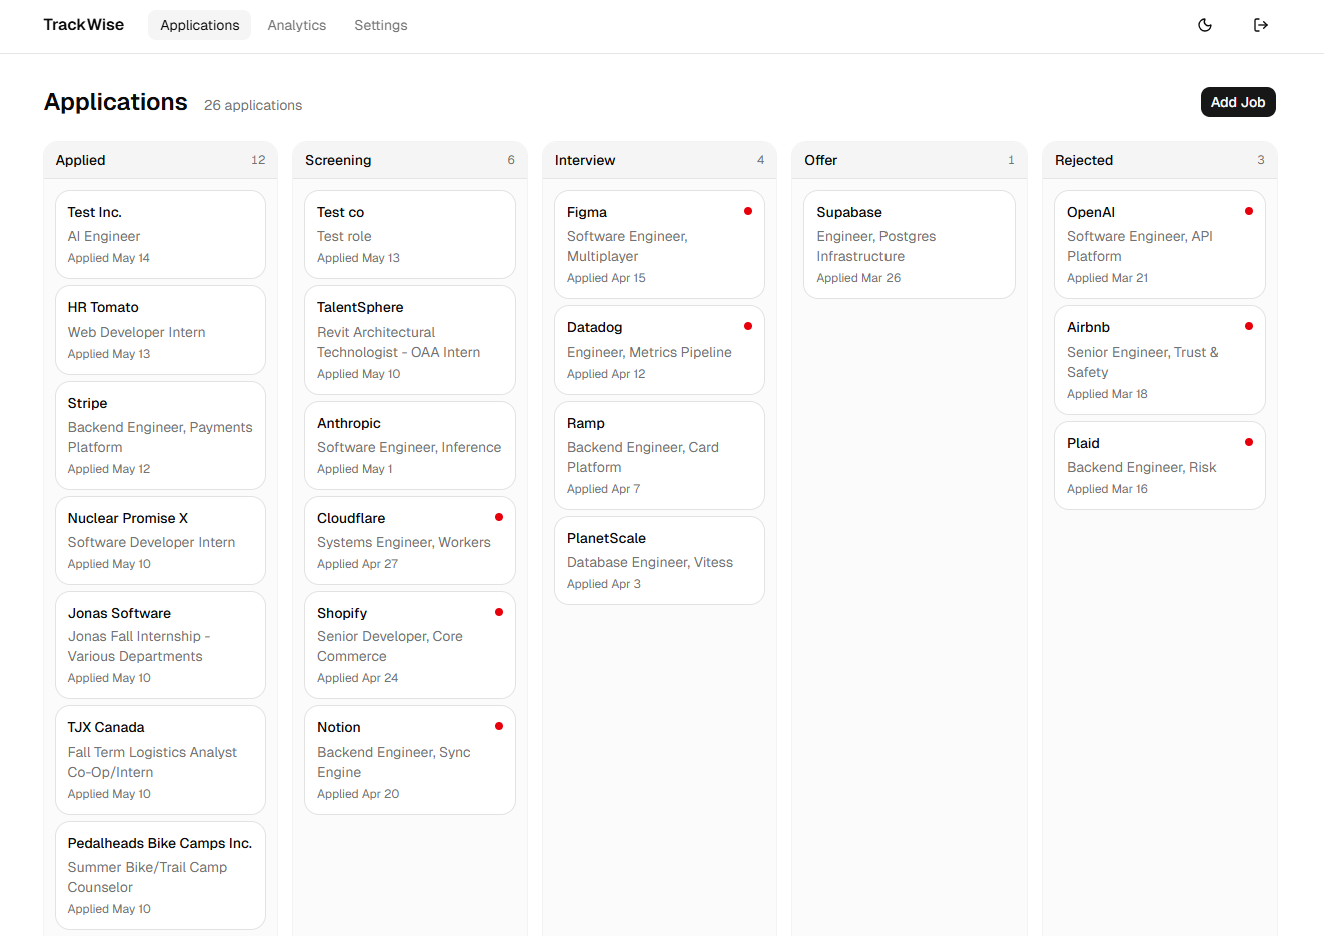
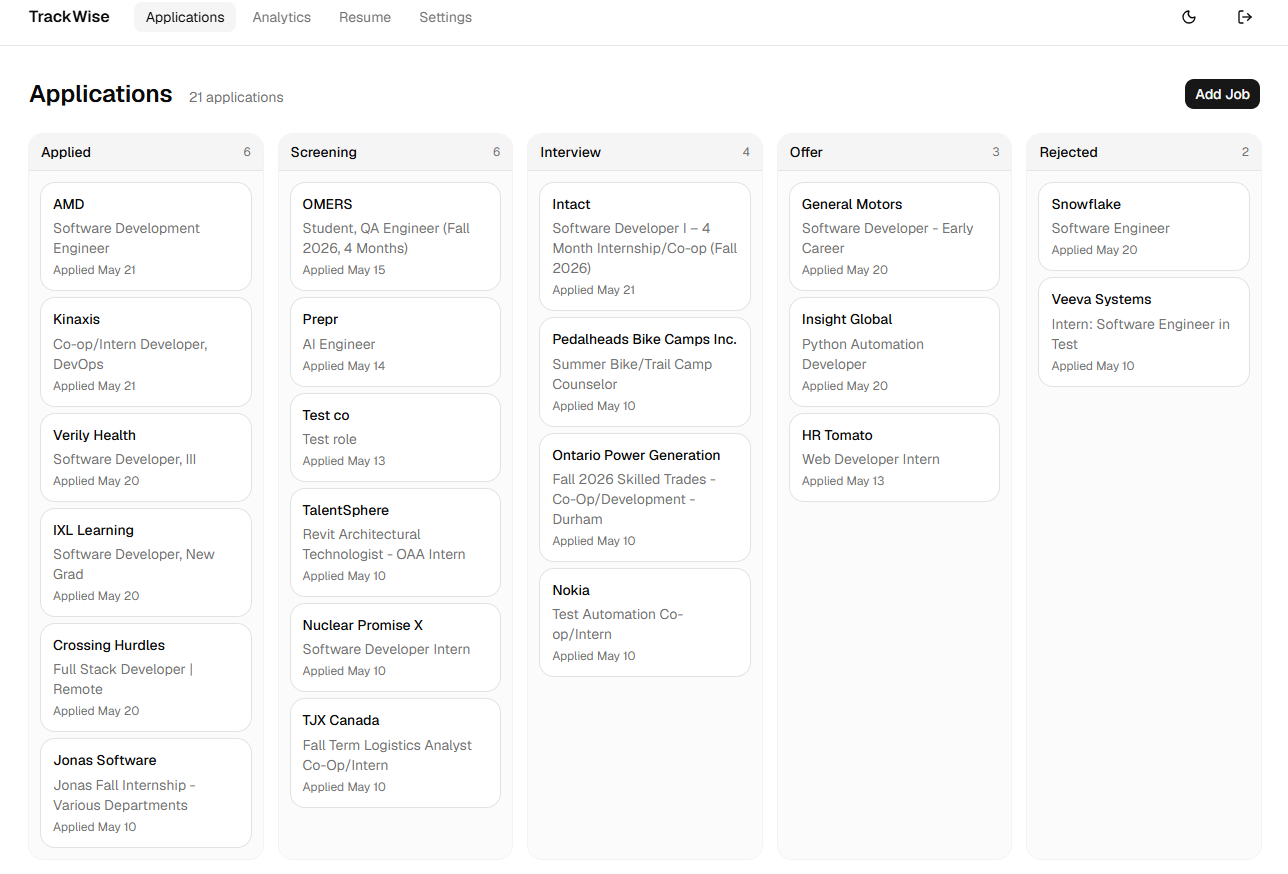
docs: refresh README and screenshots for launch
README: adds resume-fit and JD-capture to Features, the Check-fit
overlay node + Anthropic to the architecture diagram, Anthropic and
resume parsers to the tech stack, server-only Anthropic key + browser
PDF/DOCX parsing to the security section. Status line corrected from
'submitted to the Web Store' (it isn't yet) to 'build ready for
submission'.

Screenshots: replaces 01-kanban / 02-analytics / 03-detail with
current-state captures (new 4-link nav, resume-fit card with
reasoning, Loose match band visible). Replaces 05-injected-button
with 05-extension-overlay showing both Save and Check-fit buttons
plus the fit panel open. Adds 07-resume and 08-settings as their
own sections.

diff --git a/README.md b/README.md
@@ -6,7 +6,7 @@ Most trackers treat the application list as the primary artifact and bolt analyt
 
 ![TrackWise Kanban board](./docs/screenshots/01-kanban.png)
 
-> **Status:** v1 in launch prep. Chrome extension submitted to the Web Store; dashboard deployed to Vercel. See [Privacy Policy](https://trackwise-lac-nu.vercel.app/privacy).
+> **Status:** v1 in launch prep. Dashboard live on Vercel; Chrome extension build ready for Web Store submission. See [Privacy Policy](https://trackwise-lac-nu.vercel.app/privacy).
 
 ## Why this exists
 
@@ -14,22 +14,26 @@ Existing trackers (Huntr, Teal, Simplify) treat the application list as the arti
 
 - **Analytics is first-class, not bolted on.** Response rate, funnel, time-to-response, source effectiveness — front and center.
 - **Embeddings surface patterns you wouldn't notice manually.** K-means on Voyage AI vectors groups your applications into clusters labelled by their top companies, so you can see "I respond well to dev-tooling roles, badly to fintech" without ever tagging anything.
-- **Free-tier first.** Whole stack runs on free tiers (Supabase, Vercel, Voyage AI, GitHub). One-time $5 for the Chrome Web Store registration. $0/month recurring.
+- **Resume-fit feedback that explains itself.** Every saved job is scored against your resume by Claude Haiku, with a one-sentence reason citing which section matched (or what's missing). Shown both on the dashboard and live in a "Check fit" overlay on LinkedIn/Indeed before you apply.
+- **Free-tier first.** Whole stack runs on free tiers (Supabase, Vercel, Voyage AI, GitHub). Claude Haiku usage is ~$0.001 per cached fit score. One-time $5 for the Chrome Web Store registration. ~$0/month recurring.
 
 ## Features
 
 ### Capture
 - **Chrome extension** (Manifest V3) — detects job postings on LinkedIn (`/jobs/*`) and Indeed (`/viewjob*`, `/jobs*`) and saves them with one click.
+- **Job description capture** — the parser pulls the full JD body at save time, stored alongside the application so the embedding and fit-score paths have real posting content to judge against.
+- **"Check fit" overlay** — alongside Save, a Check-fit button shows how the current page matches your history and your resume without leaving the site. Scores are cached for 24h per URL.
 
 ### Track
 - **Kanban board** — five-column drag-and-drop (Applied → Screening → Interview → Offer → Rejected) with stale-application indicators.
-- **Editable notes** — inline note editing on the application detail page, saved via server actions.
+- **Editable notes and JD** — inline editing on the application detail page, saved via server actions. Editing the role, company, notes, or JD re-fires the embedding chain.
 - **CSV export** — one-click export of all your applications from the dashboard.
 
 ### Learn
 - **Analytics page** — response rate, funnel by status, time-to-response histogram, response rate by source. Date-range filter.
 - **Cluster analytics** — K-means over embeddings groups your applications into clusters labelled by the top companies in each, with per-cluster response rates. Recompute on demand.
 - **Semantic similarity** — each application is embedded by Voyage AI (`voyage-3`, 1024 dims) and matched against your others via pgvector cosine search. Burst rate-limit failures are retried automatically with exponential backoff.
+- **Resume fit** — paste or upload a resume (PDF/DOCX text-extracted in-browser). Section-level chunks are embedded; the top candidates per job go through Claude Haiku for a 0-100 score with a one-sentence reason. Fallback chain Haiku → Voyage rerank-2.5 → raw cosine ensures the card always renders. Results cache per (application, resume) pair.
 
 ### Account
 - Google OAuth sign-in; one-click account deletion that cascades to every saved application and event.
@@ -42,13 +46,25 @@ Existing trackers (Huntr, Teal, Simplify) treat the application list as the arti
 ### Cluster analytics
 ![Response-rate-by-cluster card with three K-means clusters labelled by their top companies](./docs/screenshots/06-clusters.png)
 
-### Application detail with semantic similarity
-![Application detail page with status history and similar applications](./docs/screenshots/03-detail.png)
+### Application detail
+Resume fit score with one-sentence reasoning, collapsible job description, status history, and Similar applications by cosine band.
+
+![Application detail page with resume fit card, job description section, history, and similar applications](./docs/screenshots/03-detail.png)
+
+### Resume
+Paste plain text, or upload a PDF/DOCX (text is extracted in-browser; the original file is never uploaded). Section-level chunks embed automatically.
+
+![Resume page with label and content fields plus PDF/DOCX upload buttons](./docs/screenshots/07-resume.png)
+
+### Settings
+Account info, CSV export, privacy policy link, and the account-deletion danger zone.
+
+![Settings page showing account, data export, legal links, and danger zone](./docs/screenshots/08-settings.png)
 
 ### Chrome extension
-| Popup (signed in) | Save button injected on LinkedIn |
+| Popup (signed in) | Check fit overlay on a job page |
 |---|---|
-| ![Extension popup](./docs/screenshots/04-extension-popup.png) | ![Save to TrackWise button injected on a LinkedIn job listing](./docs/screenshots/05-injected-button.png) |
+| ![Extension popup signed in, with link to the dashboard](./docs/screenshots/04-extension-popup.png) | ![Save and Check fit buttons injected on a LinkedIn job listing, with the fit panel showing history match, resume match, and reasoning](./docs/screenshots/05-extension-overlay.png) |
 
 ## Architecture
 
@@ -58,6 +74,7 @@ Existing trackers (Huntr, Teal, Simplify) treat the application list as the arti
 |  - content scripts  |         |  - Kanban board      |
 |  - background SW    |         |  - Analytics page    |
 |  - popup UI         |         |  - Detail views      |
+|  - Check-fit overlay|         |  - Resume fit card   |
 +----------+----------+         +-----------+----------+
            |                                |
            |        +----------------+      |
@@ -67,11 +84,13 @@ Existing trackers (Huntr, Teal, Simplify) treat the application list as the arti
                     | + Edge Funcs   |
                     +-------+--------+
                             |
-                            v
-                    +----------------+
-                    |  Voyage AI API |
-                    |  (embeddings)  |
-                    +----------------+
+              +-------------+-------------+
+              v                           v
+      +----------------+         +-------------------+
+      |   Voyage AI    |         |     Anthropic     |
+      |  (embeddings + |         |  (Claude Haiku    |
+      |    rerank)     |         |   fit scoring)    |
+      +----------------+         +-------------------+
 ```
 
 The full design — data model, RLS policies, triggers, build phases, decision log — lives in [`TrackWise.md`](./TrackWise.md). The agent-facing rules for working in this repo live in [`CLAUDE.md`](./CLAUDE.md) and the per-folder equivalents.
@@ -84,7 +103,9 @@ The full design — data model, RLS policies, triggers, build phases, decision l
 | Dashboard | Next.js 16 (App Router), TypeScript, Tailwind, shadcn/ui, Recharts, @dnd-kit/core |
 | Backend | Supabase Postgres (region `ca-central-1`) + Auth + RLS + Edge Functions (Deno) |
 | Vector search | pgvector with cosine distance |
-| Embeddings | Voyage AI `voyage-3` (1024 dims) |
+| Embeddings | Voyage AI `voyage-3` (1024 dims), `rerank-2.5` for cross-encoder rerank fallback |
+| Resume-fit scoring | Anthropic Claude Haiku 4.5 (tool-use for structured JSON output) |
+| Resume parsing | `pdfjs-dist` (PDF) + `mammoth` (DOCX), both browser-side; only extracted text leaves the browser |
 | Hosting | Vercel Hobby (dashboard), Chrome Web Store (extension) |
 
 ## Repository layout
@@ -125,13 +146,14 @@ pnpm --filter extension build
 # Then in chrome://extensions, enable Developer mode → Load unpacked → apps/extension/dist
 ```
 
-For backend work (migrations, Edge Functions), see [`supabase/CLAUDE.md`](./supabase/CLAUDE.md).
+For backend work (migrations, Edge Functions), see [`supabase/CLAUDE.md`](./supabase/CLAUDE.md). Edge Function secrets (`VOYAGE_API_KEY`, `ANTHROPIC_API_KEY`, `EDGE_FUNCTION_SECRET`) are set via `supabase secrets set` — never in any `.env` file.
 
 ## Security
 
 - Row-level security on every user-data table. Cross-account isolation verified against the production project; see [`docs/rls-verification.md`](./docs/rls-verification.md) for the full audit trail.
 - Service-role key is server-only (`import 'server-only'` on the admin client). The browser bundle never sees it.
-- Voyage AI key lives as a Supabase Edge Function secret, never in client code.
+- Voyage AI and Anthropic keys live as Supabase Edge Function secrets, never in client code or the browser bundle. The dashboard reaches the Anthropic API only through the `score-resume-fit` Edge Function.
+- Resume files (PDF/DOCX) are parsed in the browser; only the extracted text reaches the server. The original file is never uploaded.
 - Extension requests only `storage`, `activeTab`, `identity`, and host permissions scoped to LinkedIn and Indeed job pages — no `<all_urls>`, no `tabs`.
 
 ## License
